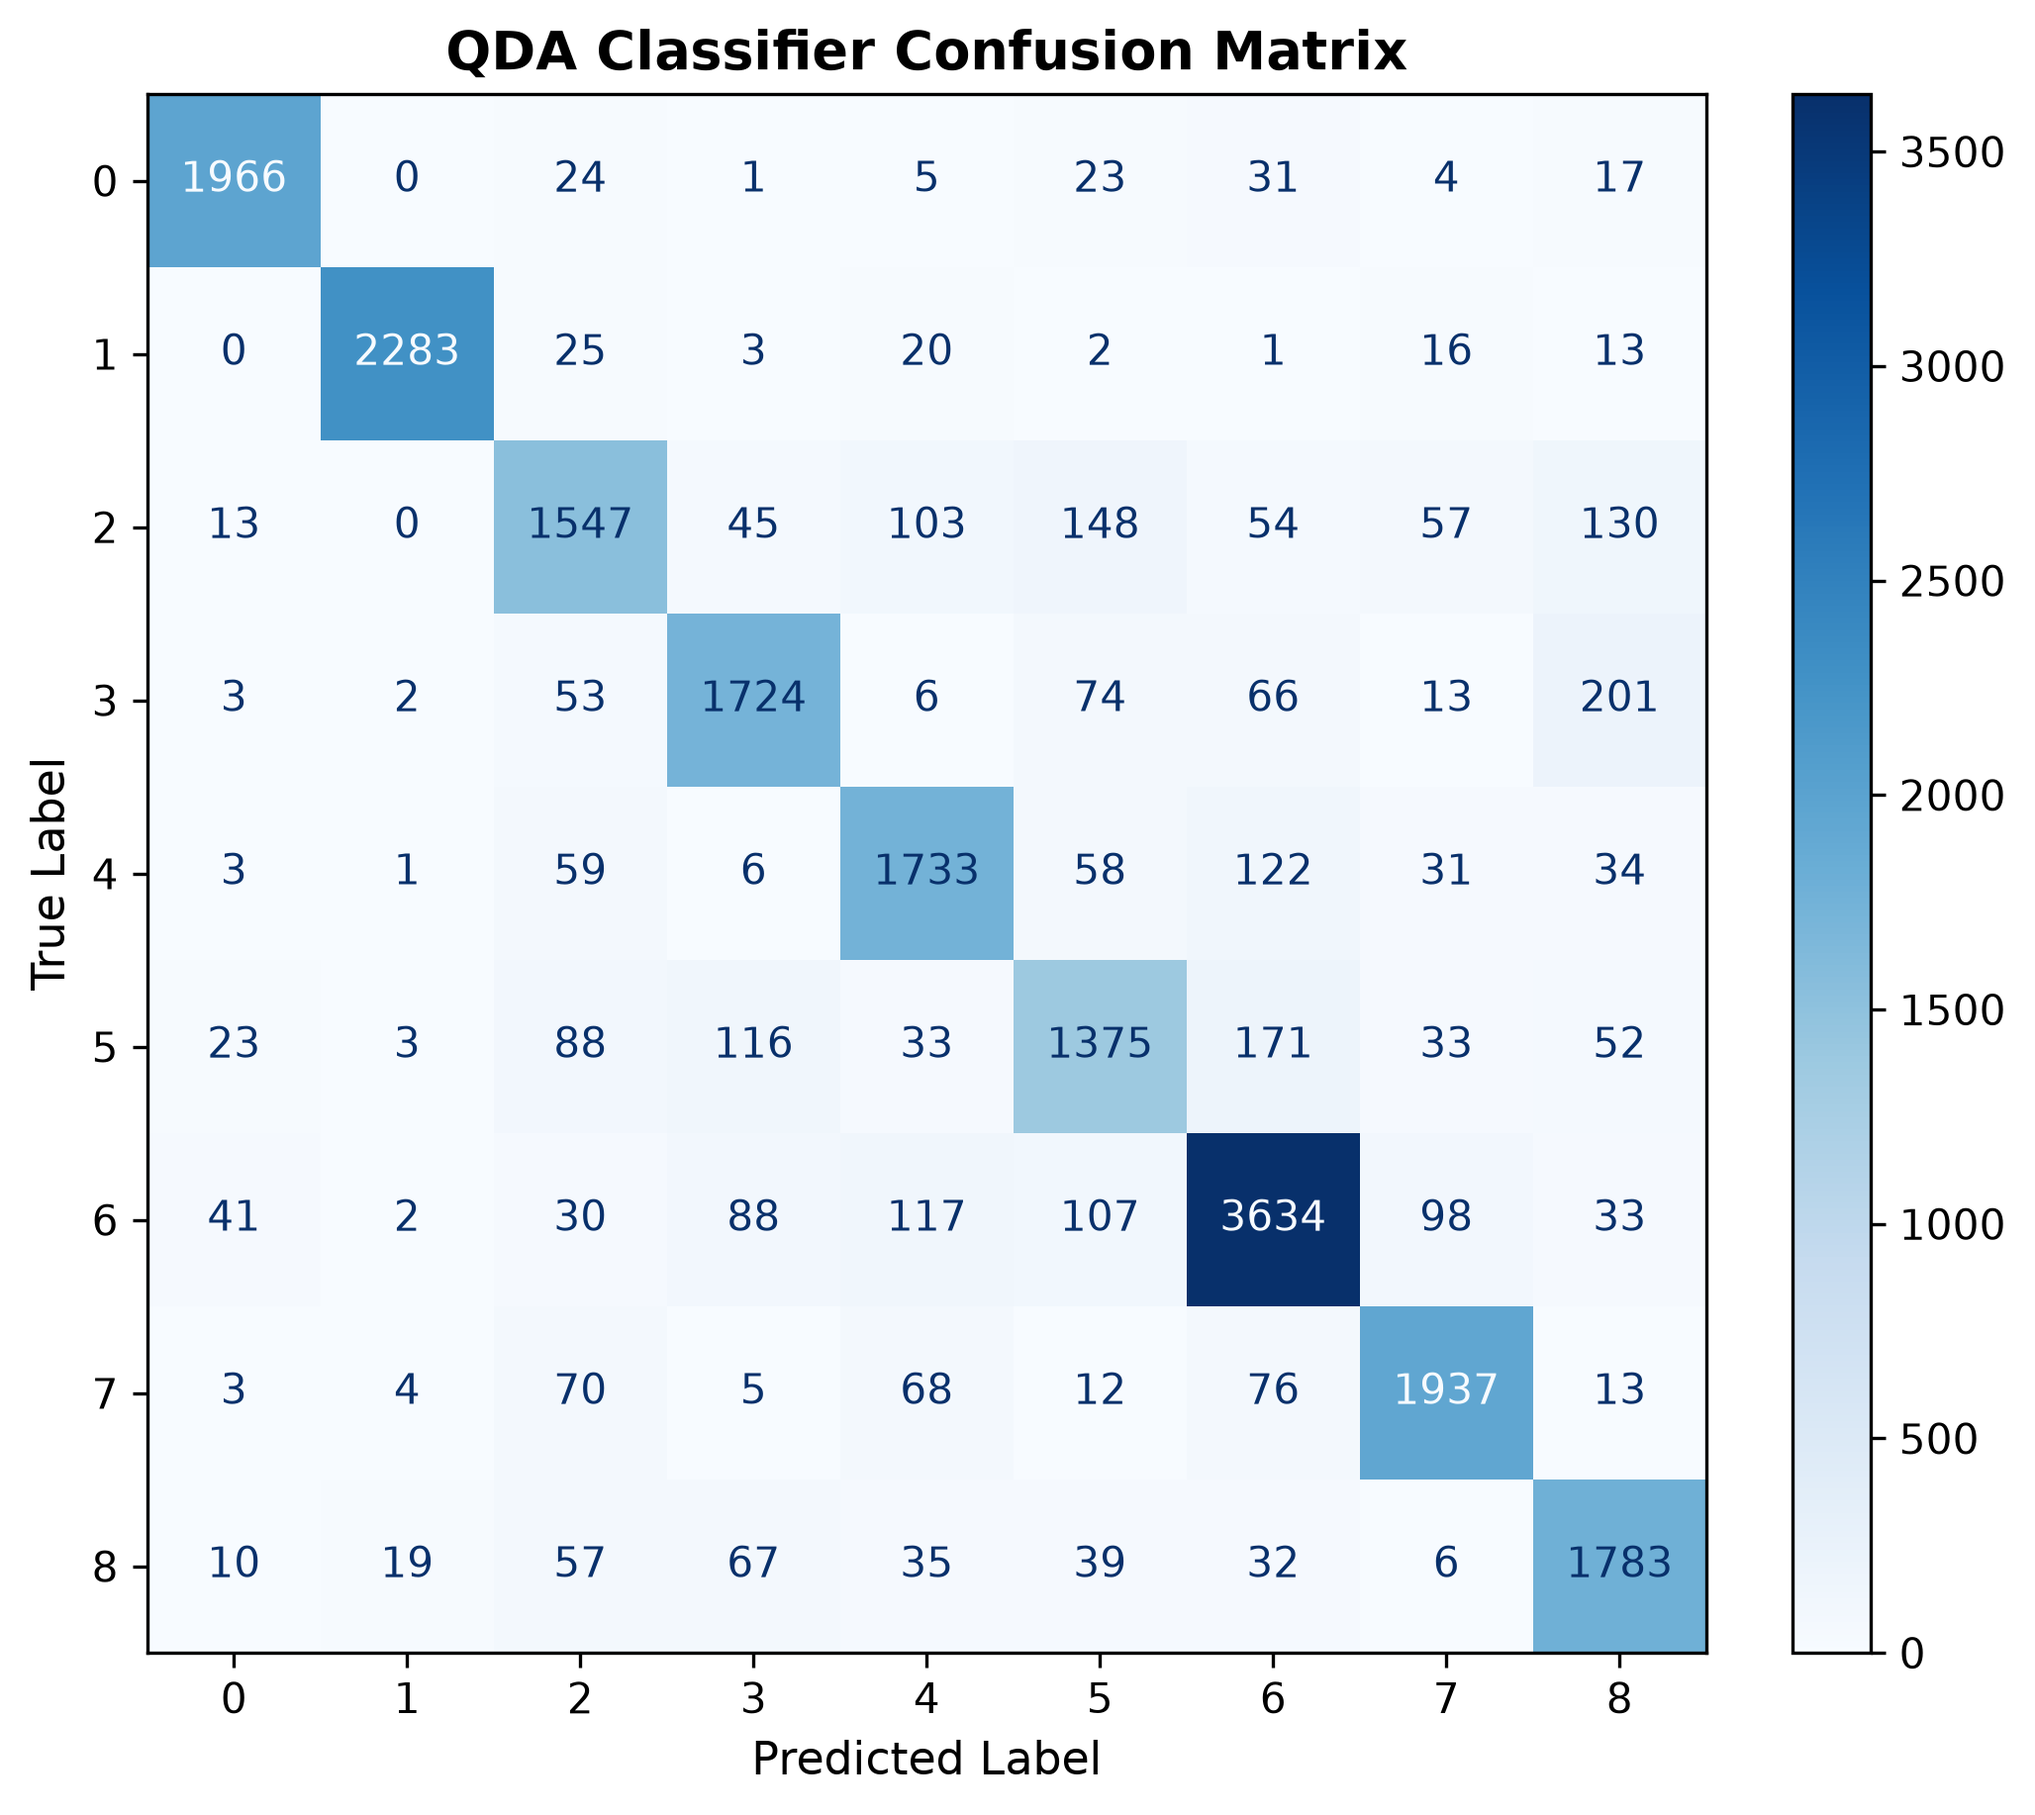
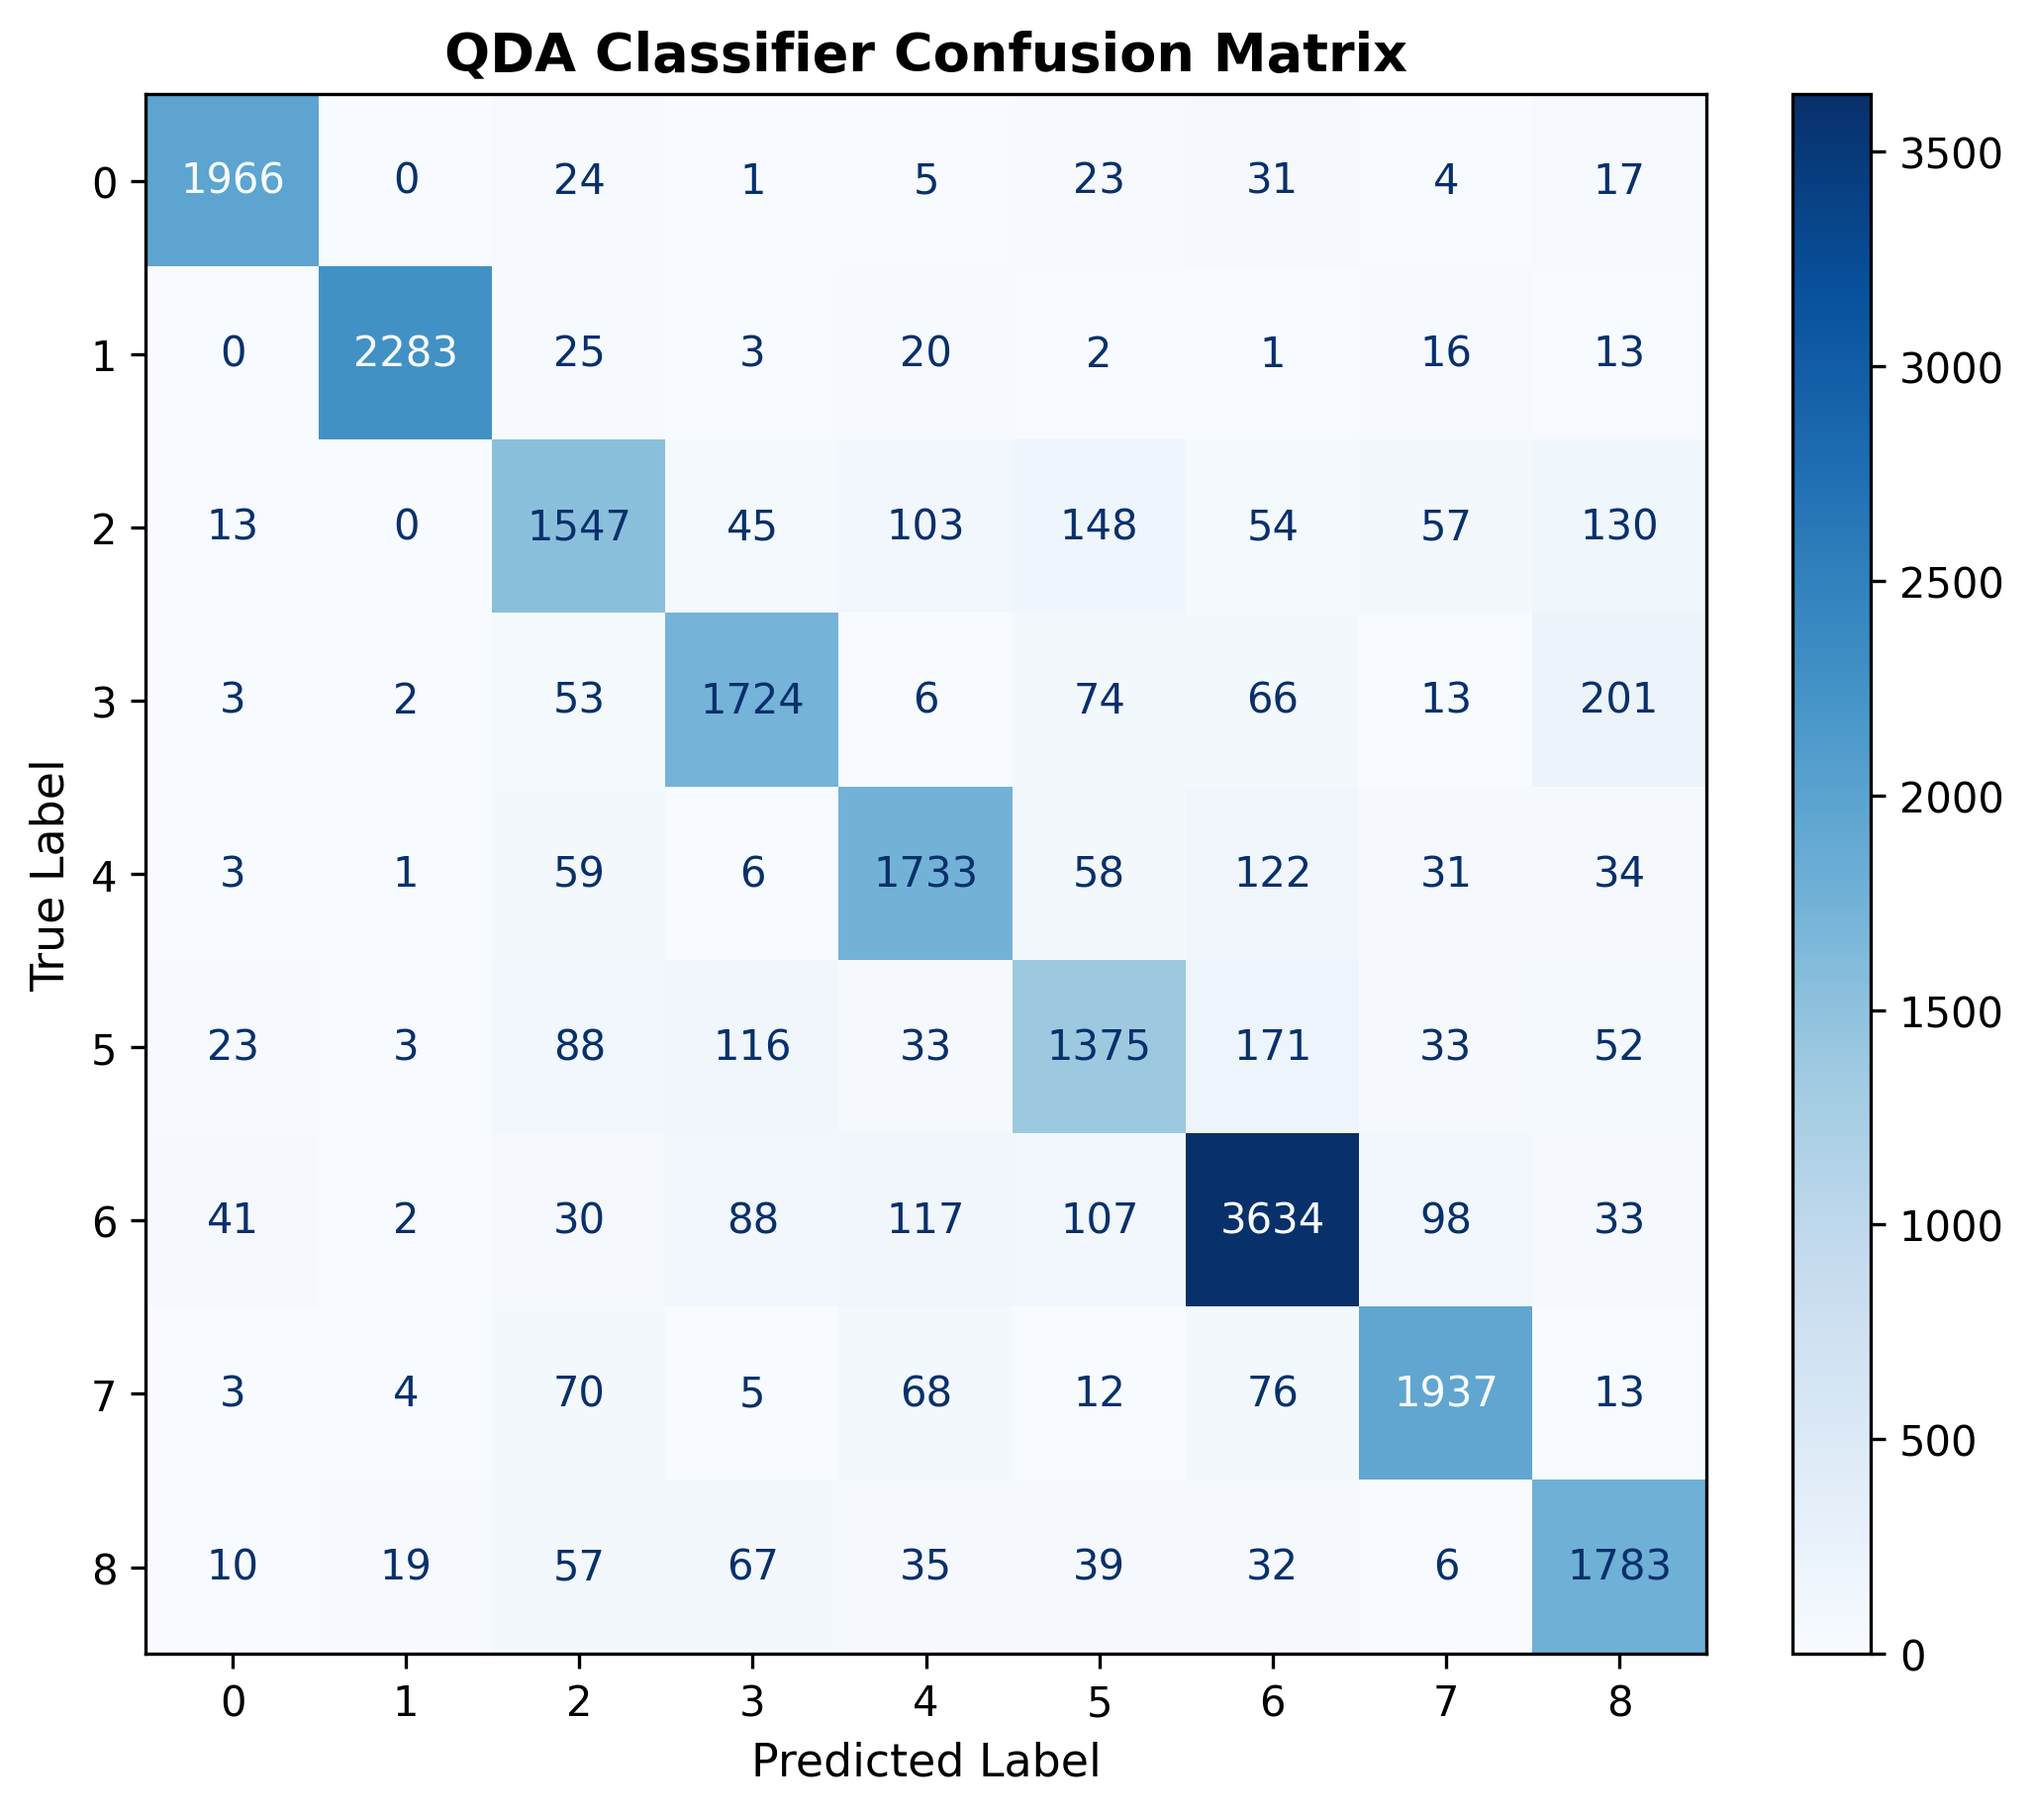
remove chirality argument

diff --git a/src/experiments/supervised.py b/src/experiments/supervised.py
@@ -28,11 +28,11 @@ def feature_ceiling(data, targets, degree=9, k=9, eval_n=None, seed=0):
     return dict(knn=acc_knn, logreg=acc_lr, qda=acc_qda)
 
 
-def prepare_lda_subspace(data, targets, degree=9, k=9, use_chirality=True, eval_n=None, seed=0, test_size=0.3):
+def prepare_lda_subspace(data, targets, degree=9, k=9, eval_n=None, seed=0, test_size=0.3):
     """Prepares data, applies feature standardization, and fits the LDA transformation."""
 
     Xtr, Xte, ytr, yte, _ = prepare_pipeline(
-        data, targets, degree=degree, k=k, use_chirality=use_chirality,
+        data, targets, degree=degree, k=k,
         eval_n=eval_n, test_size=test_size, seed=seed
     )
     sc = StandardScaler()
@@ -47,7 +47,7 @@ def prepare_lda_subspace(data, targets, degree=9, k=9, use_chirality=True, eval_
 
 def evaluate_qda_in_lda(
         data_or_Ztr, targets_or_Zte, ytr=None, yte=None,
-        degree=9, k=9, use_chirality=True, eval_n=None, seed=0, test_size=0.3
+        degree=9, k=9, eval_n=None, seed=0, test_size=0.3
 ):
     """
     Trains and evaluates QDA in LDA space.
@@ -59,7 +59,7 @@ def evaluate_qda_in_lda(
     else:
         Ztr, Zte, ytr, yte = prepare_lda_subspace(
             data_or_Ztr, targets_or_Zte, degree=degree, k=k,
-            use_chirality=use_chirality, eval_n=eval_n, seed=seed, test_size=test_size
+            eval_n=eval_n, seed=seed, test_size=test_size
         )
 
     qda = QuadraticDiscriminantAnalysis().fit(Ztr, ytr)
@@ -88,14 +88,13 @@ def evaluate_kmeans_in_lda(Zte, yte, k=9, seed=0):
     return score, yte, y_pred
 
 
-def evaluate_all_in_lda_space(data, targets, degree=9, k=9, use_chirality=True, eval_n=None, seed=0, test_size=0.3):
+def evaluate_all_in_lda_space(data, targets, degree=9, k=9, eval_n=None, seed=0, test_size=0.3):
     """Aggregates all LDA-subspace evaluations without redundant LDA re-computations."""
 
     Ztr, Zte, ytr, yte = prepare_lda_subspace(
-        data, targets, degree=degree, k=k, use_chirality=use_chirality,
+        data, targets, degree=degree, k=k,
         eval_n=eval_n, seed=seed, test_size=test_size
     )
-    tag = "with chi" if use_chirality else "no chi"
 
     score_nc, _, _ = evaluate_nearest_centroid_in_lda(Ztr, Zte, ytr, yte)
     score_km, _, _ = evaluate_kmeans_in_lda(Zte, yte, k=k, seed=seed)
@@ -103,9 +102,9 @@ def evaluate_all_in_lda_space(data, targets, degree=9, k=9, use_chirality=True, 
     score_qda, y_true, qda_preds = evaluate_qda_in_lda(Ztr, Zte, ytr, yte)
 
     out = {
-        f"NearestCentroid in LDA ({tag})": score_nc,
-        f"KMeans in LDA subspace ({tag})": score_km,
-        f"QDA in LDA subspace ({tag})": score_qda,
+        f"NearestCentroid in LDA": score_nc,
+        f"KMeans in LDA subspace": score_km,
+        f"QDA in LDA subspace": score_qda,
     }
 
     return out, y_true, qda_preds

diff --git a/src/dataset_preparation.py b/src/dataset_preparation.py
@@ -6,16 +6,13 @@ from src.embedder import Embedder
 from src.metrics import merge_labels
 
 
-def get_features(data, targets, degree=9, K=9, use_chirality=True, eval_n=None):
+def get_features(data, targets, degree=9, K=9, eval_n=None):
     """Path for extracting invariants and merging labels directly."""
 
     y = np.asarray(targets.cpu().numpy())
     embedder = Embedder(max_degree=degree)
     coeffs = embedder._coeffs(data)
     raw = embedder.inv(coeffs).cpu().numpy()
-
-    if not use_chirality:
-        raw = raw[:, embedder.inv.achiral_idx]
 
     if eval_n is not None:
         raw, y = raw[:eval_n], y[:eval_n]
@@ -27,7 +24,7 @@ def get_features(data, targets, degree=9, K=9, use_chirality=True, eval_n=None):
     return raw, y_m, C, embedder
 
 
-def prepare_pipeline(data, targets, degree=9, k=9, use_chirality=True, eval_n=None, test_size=0.3, seed=0):
+def prepare_pipeline(data, targets, degree=9, k=9, eval_n=None, test_size=0.3, seed=0):
     """Splits raw images, rotates test set, and extracts invariants."""
 
     if eval_n is not None:
@@ -45,7 +42,7 @@ def prepare_pipeline(data, targets, degree=9, k=9, use_chirality=True, eval_n=No
     )
 
     # extract features (invariants)
-    Xtr, ytr, _, embedder = get_features(img_tr, torch.tensor(ytr_raw), degree, k, use_chirality, eval_n=None)
-    Xte, yte, _, _ = get_features(img_te_rot, yte_tensor, degree, k, use_chirality, eval_n=None)
+    Xtr, ytr, _, embedder = get_features(img_tr, torch.tensor(ytr_raw), degree, k, eval_n=None)
+    Xte, yte, _, _ = get_features(img_te_rot, yte_tensor, degree, k, eval_n=None)
 
     return Xtr, Xte, ytr, yte, embedder

diff --git a/src/experiments/window_sweep.py b/src/experiments/window_sweep.py
@@ -3,7 +3,7 @@ import torch
 from sklearn.discriminant_analysis import QuadraticDiscriminantAnalysis
 from sklearn.preprocessing import StandardScaler
 from data.dataloader import load_data
-from models.mlp import train_mlp
+from src.models.mlp import train_mlp
 from src.moment_transforms import MomentTransform
 from src.dataset_preparation import prepare_pipeline
 

diff --git a/src/experiments/full_pipeline.py b/src/experiments/full_pipeline.py
@@ -1,5 +1,5 @@
 from data.dataloader import load_data
-from models.mlp import train_mlp
+from src.models.mlp import train_mlp
 from src.metrics import classification_metrics
 from src.experiments.supervised import feature_ceiling, evaluate_all_in_lda_space
 from src.experiments.utils import print_compare

diff --git a/main.py b/main.py
@@ -1,5 +1,5 @@
 from data.dataloader import load_data
-from models.mlp import train_mlp
+from src.models.mlp import train_mlp
 from src.metrics import classification_metrics
 from src.experiments.supervised import evaluate_qda_in_lda
 from src.visualization import plot_confusion_matrix
